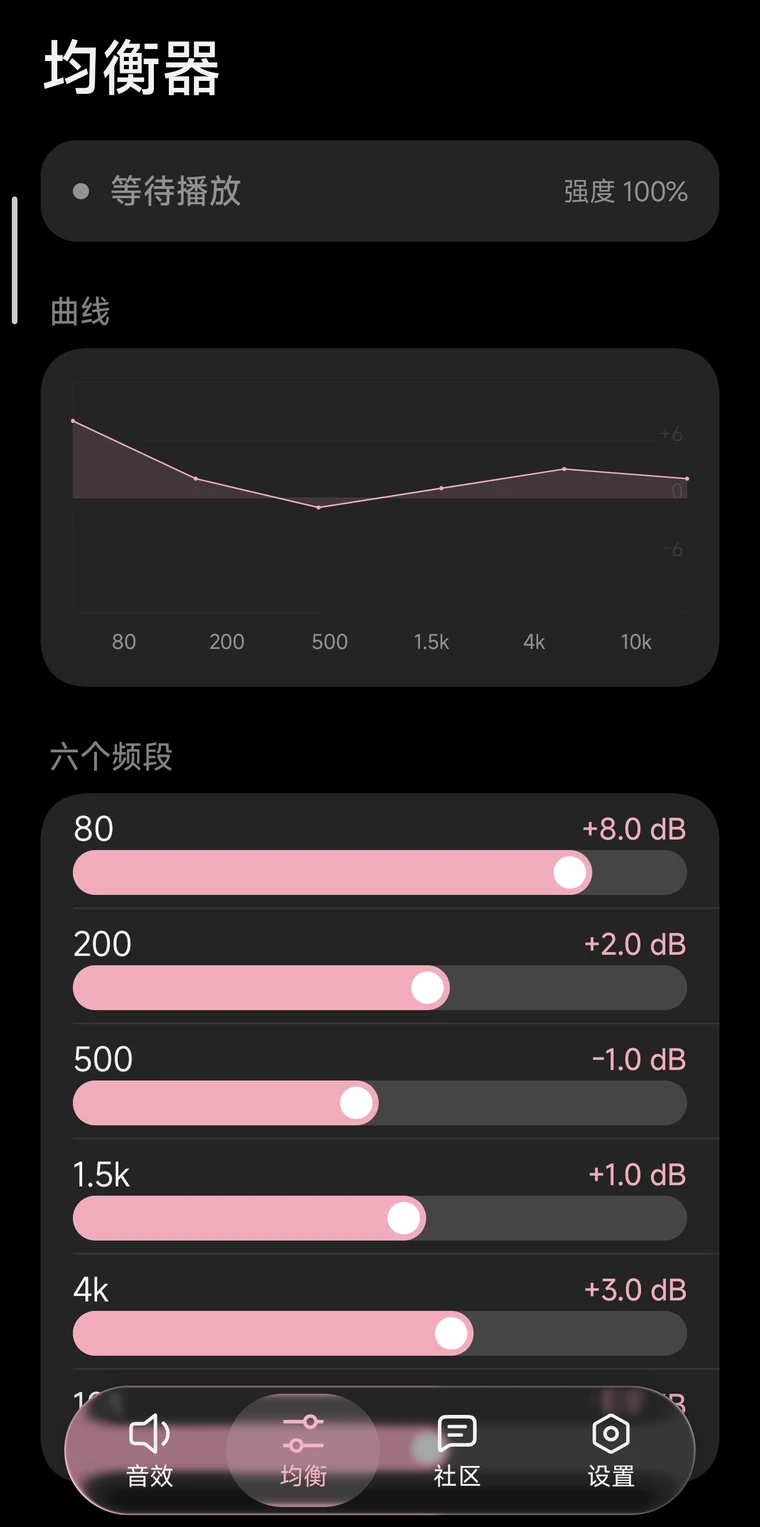
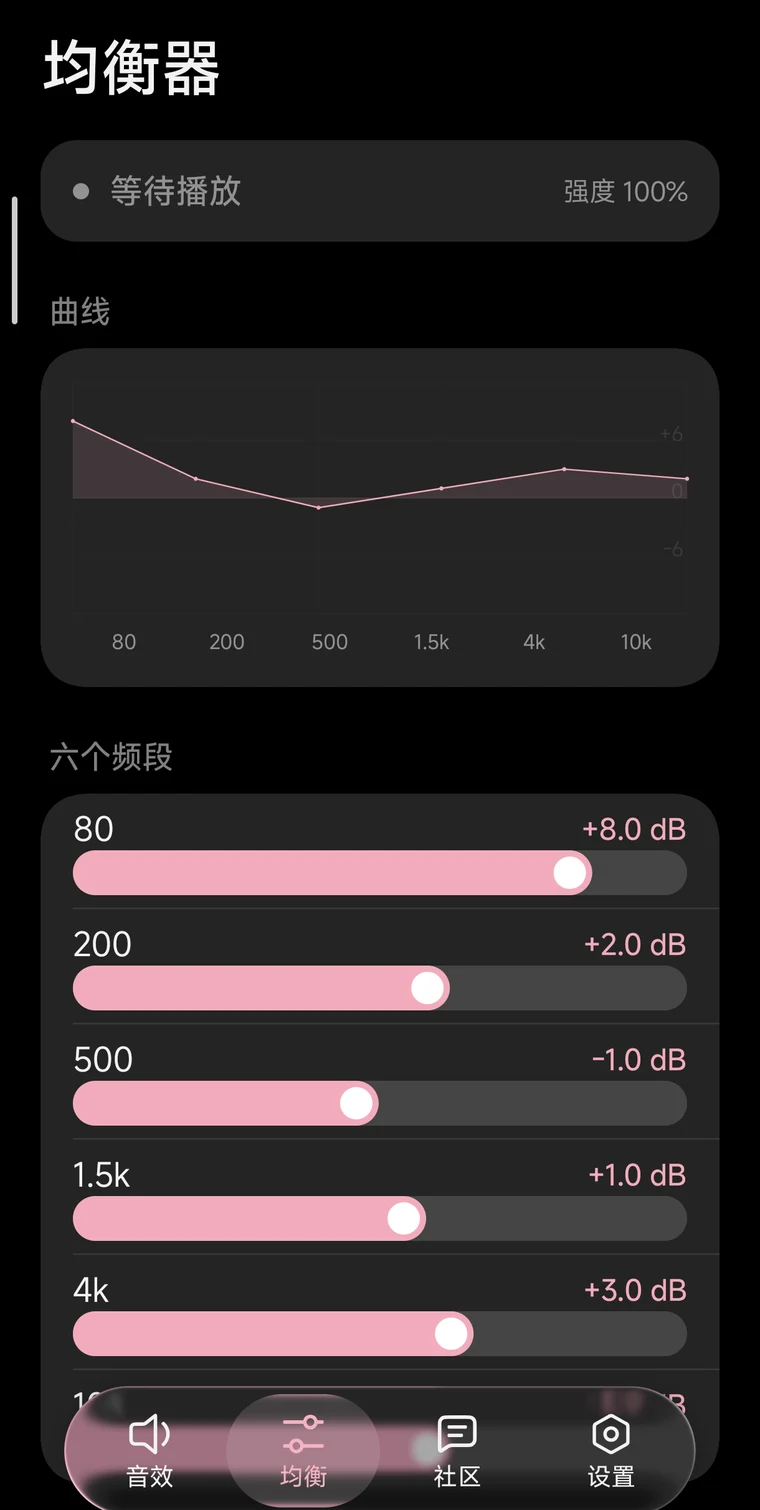
feat(site): 下载键与截图区换成两个交互本身
- 主按钮即光扫键：点下载时光带扫过、文字在光下换成「已开始下载」，真实下载不受影响。
- 首屏三个玻璃文件夹装的是三张真机截图，点开封面像书页翻到左边，第一只默认打开。
- 截图重新裁切：去掉状态栏与底部小白条，统一 760×1510，行内等宽对齐。

diff --git a/site/index.html b/site/index.html
@@ -169,9 +169,9 @@
 .copybtn.copied .lbl span { opacity: 1; }
 
 /* ===== 演示：玻璃相片文件夹 ===== */
-.folders { display: flex; gap: 18px; flex-wrap: wrap; }
+.folders { display: flex; gap: 20px; flex-wrap: wrap; justify-content: center; margin: 40px 0 0; }
 .folder {
-  position: relative; width: 168px; height: 208px;
+  position: relative; width: 200px; height: 352px;
   perspective: 900px; cursor: pointer;
 }
 .folder .sheets {
@@ -179,18 +179,13 @@
   background: #f4f1ec; border: 1px solid var(--line);
 }
 .folder .sheet {
-  position: absolute; width: 44%; aspect-ratio: 3/4; border-radius: 6px;
-  background: var(--tone); box-shadow: 0 6px 14px rgba(0,0,0,.16);
-  transition: transform .34s var(--ease), box-shadow .34s var(--ease);
-  transform-origin: center bottom;
+  position: absolute; inset: 0; width: 100%; height: 100%;
+  object-fit: cover; object-position: top center;
+  border-radius: 16px; display: block;
+  transition: transform .34s var(--ease);
 }
-.folder .sheet:nth-child(1) { left: 7%;  top: 16%; transform: rotate(-7deg); }
-.folder .sheet:nth-child(2) { left: 29%; top: 10%; transform: rotate(3deg); }
-.folder .sheet:nth-child(3) { left: 52%; top: 18%; transform: rotate(9deg); }
-.folder.open .sheet:nth-child(1) { transform: rotate(-9deg) translate(-8%, -6%); }
-.folder.open .sheet:nth-child(2) { transform: rotate(2deg) translateY(-10%); }
-.folder.open .sheet:nth-child(3) { transform: rotate(11deg) translate(8%, -4%); }
-.folder.open .sheet:hover { transform: translateY(-22%) scale(1.06); box-shadow: 0 14px 26px rgba(0,0,0,.22); }
+.folder .sheet:nth-child(2) { display: none; }
+.folder.open .sheet { transform: scale(1.03); }
 /* 前盖：磨砂玻璃，只透出里面的色块 */
 .folder .cover {
   position: absolute; inset: 0; border-radius: 18px;
@@ -223,7 +218,7 @@
 }
 
   @media (max-width: 560px) {
-    .folder { width: 104px; height: 130px; }
+    .folder { width: 140px; height: 246px; }
     .folders { gap: 10px; }
     .folder .cover { padding: 10px; }
     .folder .cover b { font-size: 11px; }
@@ -248,12 +243,34 @@
   <header>
     <h1>给外放叠一条<br>自己的曲线</h1>
     <p class="sub">六段均衡，按播放会话挂载。不改系统文件，关掉即回原厂。</p>
-    <a class="cta" href="/download/AURORA-1.3.3.apk">下载 APK</a>
+    <a class="cta sweepbtn" id="dlbtn" href="/download/AURORA-1.3.3.apk">
+      <span class="lbl"><span id="dllabel">下载 APK</span></span>
+      <span class="sweep" aria-hidden="true"></span>
+    </a>
     <p class="hint">需要 Root 与 LSPosed · 小米 17 系列已验证</p>
 
-    <div class="shots">
-      <img src="/img/shot-tone.webp" alt="音效页" width="760" height="1527">
-      <img src="/img/shot-eq.webp" alt="均衡页" width="760" height="1527" loading="lazy">
+    <div class="folders" id="folders">
+      <div class="folder open" style="--tone:#e8cfd4; --tone2:#b2455e" tabindex="0" role="button" aria-label="打开音效页">
+        <div class="sheets">
+          <img class="sheet" src="/img/shot-tone.webp?v=2" alt="音效页：当前曲线与预设" width="760" height="1510">
+          <img class="sheet" src="/img/shot-eq.webp?v=2" alt="均衡页：六段滑杆" width="760" height="1510" loading="lazy">
+        </div>
+        <div class="cover"><b>音效</b></div>
+      </div>
+      <div class="folder" style="--tone:#d8dde4; --tone2:#6e7788" tabindex="0" role="button" aria-label="打开均衡页">
+        <div class="sheets">
+          <img class="sheet" src="/img/shot-eq.webp?v=2" alt="均衡页" width="760" height="1510" loading="lazy">
+          <img class="sheet" src="/img/shot-tone.webp?v=2" alt="音效页" width="760" height="1510" loading="lazy">
+        </div>
+        <div class="cover"><b>均衡</b></div>
+      </div>
+      <div class="folder" style="--tone:#e6dccb; --tone2:#a08055" tabindex="0" role="button" aria-label="打开社区页">
+        <div class="sheets">
+          <img class="sheet" src="/img/shot-community.webp?v=2" alt="社区页" width="760" height="1510" loading="lazy">
+          <img class="sheet" src="/img/shot-tone.webp?v=2" alt="音效页" width="760" height="1510" loading="lazy">
+        </div>
+        <div class="cover"><b>社区</b></div>
+      </div>
     </div>
   </header>
 
@@ -312,53 +329,7 @@
     </ul>
   </section>
 
-<section class="demo">
-    <h2>两个小交互</h2>
-    <div class="demo-row">
-      <div class="demo-block">
-        <button class="copybtn" type="button" id="copybtn" aria-live="polite">
-          <span class="stack" aria-hidden="true">
-            <i><svg viewBox="0 0 24 24" fill="#f97316"><path d="M12 2l1.8 5.6L19 9l-4.6 3.4L15.6 18 12 14.8 8.4 18l1.2-5.6L5 9l5.2-1.4z"/></svg></i>
-            <i><svg viewBox="0 0 24 24" fill="#1d1d1f"><path d="M12 3l8 4.6v8.8L12 21l-8-4.6V7.6z"/></svg></i>
-            <i><svg viewBox="0 0 24 24" fill="none" stroke="#1d1d1f" stroke-width="2.2"><path d="M9 15c-2 2-4 0-2-2l4-4c2-2 4 0 2 2"/><path d="M15 9c2-2 4 0 2 2l-4 4c-2 2-4 0-2-2"/></svg></i>
-          </span>
-          <span class="lbl"><span id="copylabel">Copy prompt</span></span>
-          <span class="sweep" aria-hidden="true"></span>
-        </button>
-        <p class="demo-note">点一下：光扫过的同时换字。原作 <a href="https://x.com/kippe07/status/2122278471090966873" target="_blank" rel="noopener">Petar Cirkovic</a>，收录于 <a href="https://cantrip.cn/i/copy-prompt-sweep" target="_blank" rel="noopener">Cantrip</a></p>
-      </div>
 
-      <div class="demo-block">
-        <div class="folders" id="folders">
-          <div class="folder" style="--tone:#cfd3da; --tone2:#9aa3b0" tabindex="0" role="button" aria-label="打开 Smoke">
-            <div class="sheets">
-              <div class="sheet" style="--tone:#b9bfc9"></div>
-              <div class="sheet" style="--tone:#d7dbe1"></div>
-              <div class="sheet" style="--tone:#a8b0bc"></div>
-            </div>
-            <div class="cover"><b>Smoke</b></div>
-          </div>
-          <div class="folder" style="--tone:#f3c9a0; --tone2:#e59a5f" tabindex="0" role="button" aria-label="打开 Warm light">
-            <div class="sheets">
-              <div class="sheet" style="--tone:#f0b98b"></div>
-              <div class="sheet" style="--tone:#f7d6b4"></div>
-              <div class="sheet" style="--tone:#e2a06a"></div>
-            </div>
-            <div class="cover"><b>Warm light</b></div>
-          </div>
-          <div class="folder" style="--tone:#5d6472; --tone2:#3a4150" tabindex="0" role="button" aria-label="打开 After dark">
-            <div class="sheets">
-              <div class="sheet" style="--tone:#4e5563"></div>
-              <div class="sheet" style="--tone:#656d7c"></div>
-              <div class="sheet" style="--tone:#3b4250"></div>
-            </div>
-            <div class="cover"><b>After dark</b></div>
-          </div>
-        </div>
-        <p class="demo-note">点开像翻书：封面翻到左边，指到哪张哪张浮起来。原作 <a href="https://x.com/sucodeee/status/2117957702345527378" target="_blank" rel="noopener">sucodee</a>，收录于 <a href="https://cantrip.cn/i/glass-photo-folders" target="_blank" rel="noopener">Cantrip</a></p>
-      </div>
-    </div>
-  </section>
 
   <footer>
     <p>个人项目，只在小米 17 Pro 上验证过。<br>
